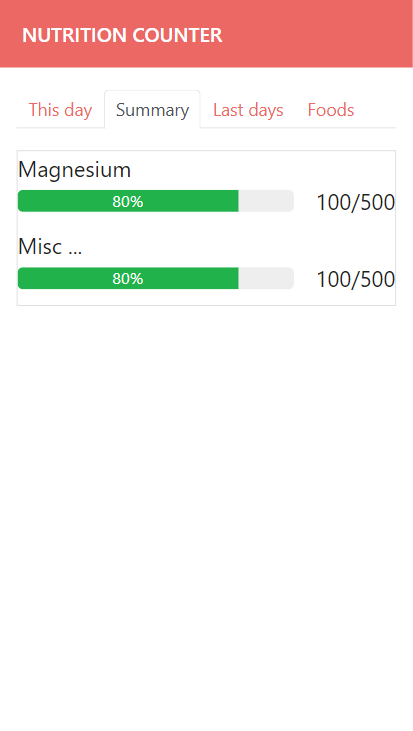
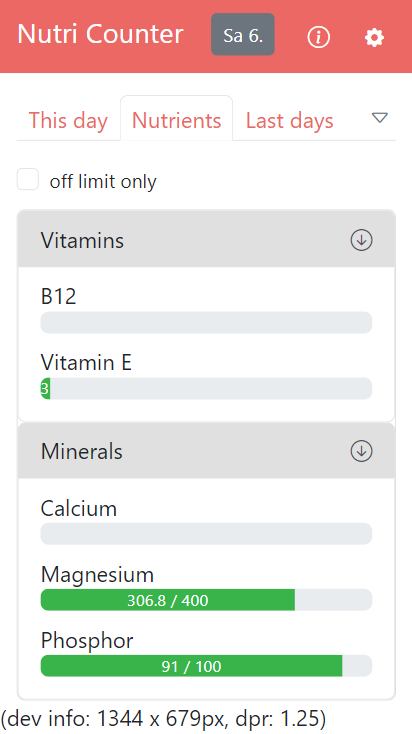
Readme

diff --git a/README.md b/README.md
@@ -84,19 +84,26 @@ Currently I am saving time for different projects by skipping features that I do
 
 <table>
   <tr>
-    <td>Older</td>
-    <td>Plan (will be nicer ;)</td>
-    <td>&nbsp;</td>
+    <td>Currently</td>
+    <td>Nutrients</td>
   </tr>
   <tr>
     <td>
-      <img src="misc/img.png" width="200">
-    </td>
-    <td>
-      <img src="misc/design_1.png" width="200">
+      <img src="misc/img.png" width="400">
     </td>
     <td>
       <img src="misc/design_2.png" width="200">
+    </td>
+  </tr>
+</table>
+
+<table>
+  <tr>
+    <td>Improved list design</td>
+  </tr>
+  <tr>
+    <td>
+      <img src="misc/design_1.png" width="200">
     </td>
   </tr>
 </table>
